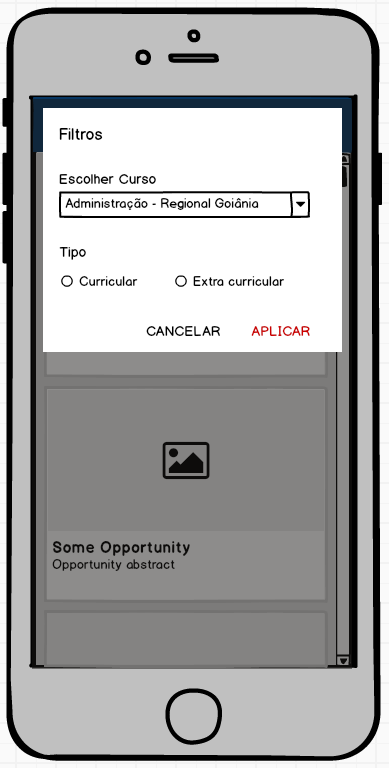
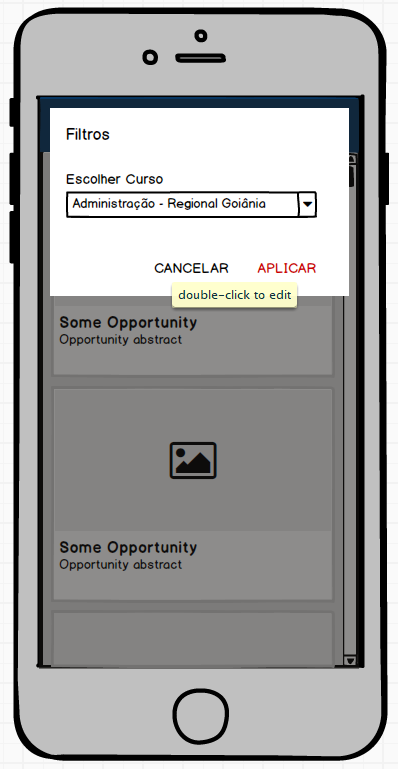
[OP] Remove another filter and let only filter by course.

diff --git a/Documento de Especificação de Objetivos e Requisitos (EOR).md b/Documento de Especificação de Objetivos e Requisitos (EOR).md
@@ -571,7 +571,7 @@ Suponha que o domínio do problema seja a venda de produtos em um comércio vare
  * Cenário principal:
  * Usuário abre o aplicativo.
  * Usuário clica no menu Oportunidades.
- * Usuário pode filtrar as oportunidades por curso ou se estágio é curricular ou extra curricular.
+ * Usuário pode filtrar as oportunidades por curso.
 
  * Protótipos de tela: Protótipos de tela (interface homem-computador) relacionados ao caso de uso.
 
